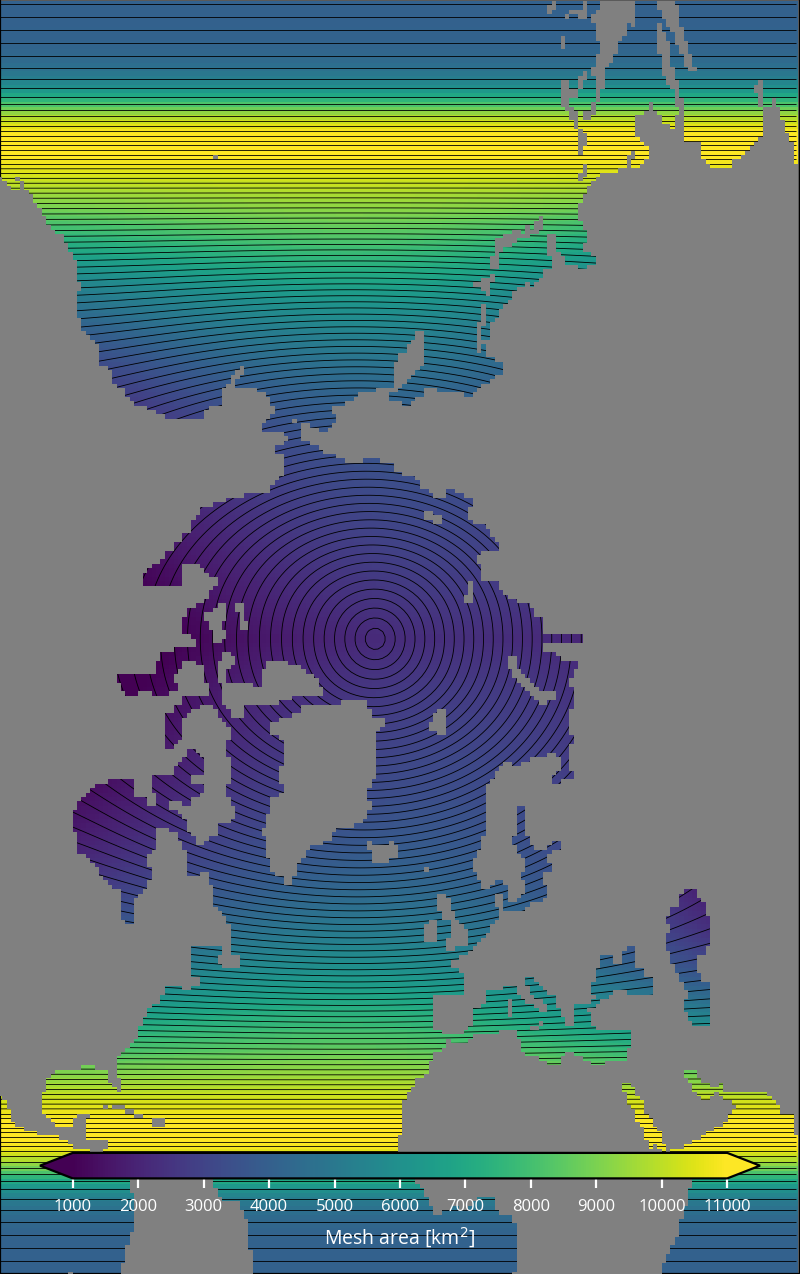
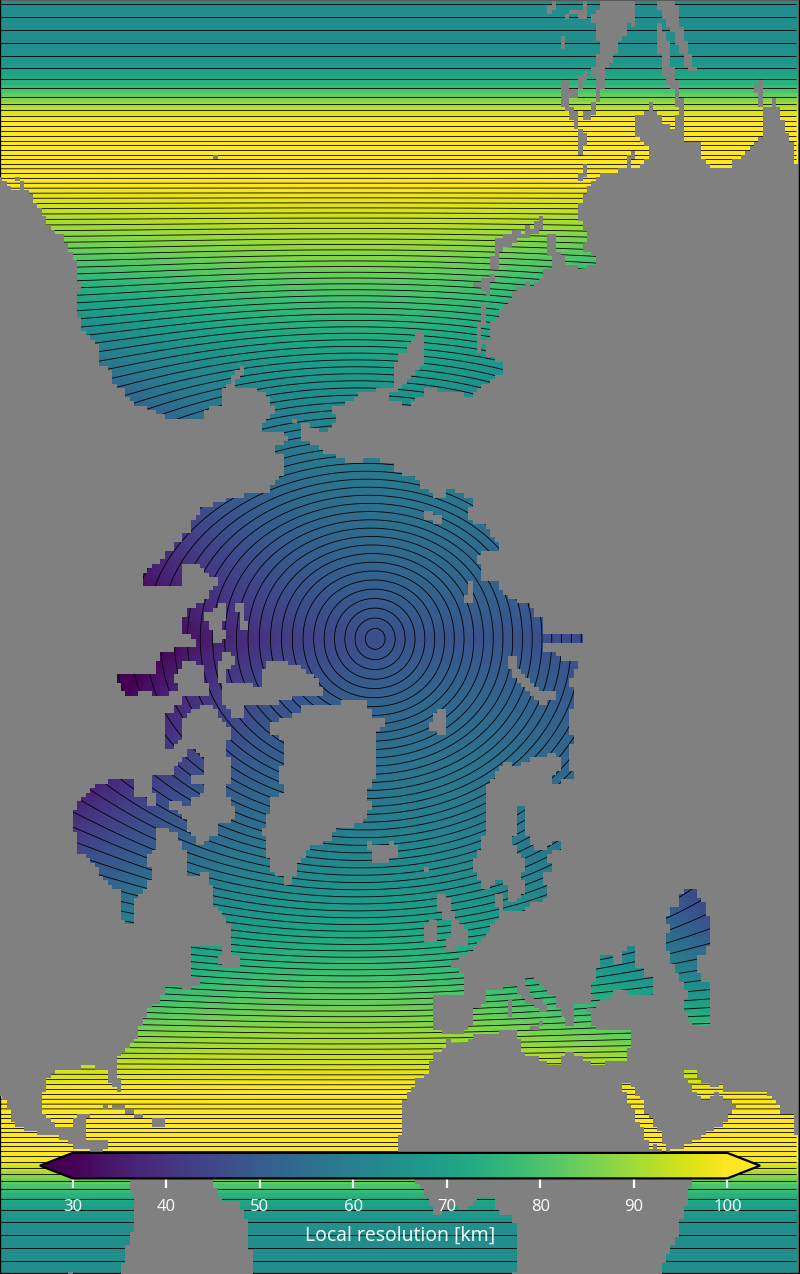
LB

diff --git a/README.md b/README.md
@@ -28,7 +28,7 @@ Vectorial image so zoomable: [here!](https://raw.githubusercontent.com/nextsimdg
 <p align="center">
   <img width="400" src="https://github.com/nextsimdg/grid/blob/main/figs/1degree/NH_cell_area_+_iso-lat_+_mask.png">
   <br>
-  <i>Local area of grid cells, iso-latitudes and land-sea mask.</i>
+  <i>Local resolution of grid cells, iso-latitudes and land-sea mask.</i>
 </p>
 
 
@@ -62,7 +62,7 @@ Vectorial image so zoomable: [here!](https://raw.githubusercontent.com/nextsimdg
 <p align="center">
   <img height="400" src="https://github.com/nextsimdg/grid/blob/main/figs/1degree/SH_cell_area_+_iso-lat_+_mask.png">
   <br>
-  <i>Local area of grid cells, iso-latitudes and land-sea mask.</i>
+  <i>Local resolution of grid cells, iso-latitudes and land-sea mask.</i>
 </p>
 
 <br>
